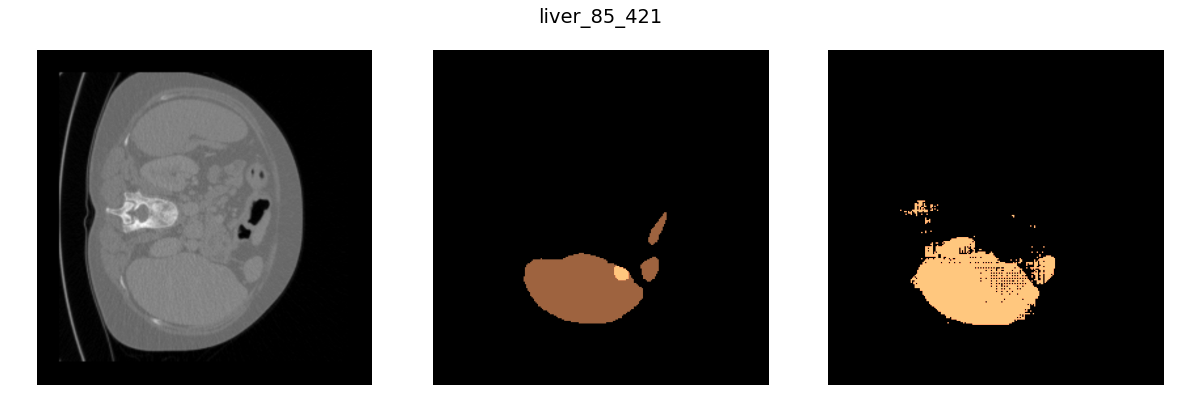
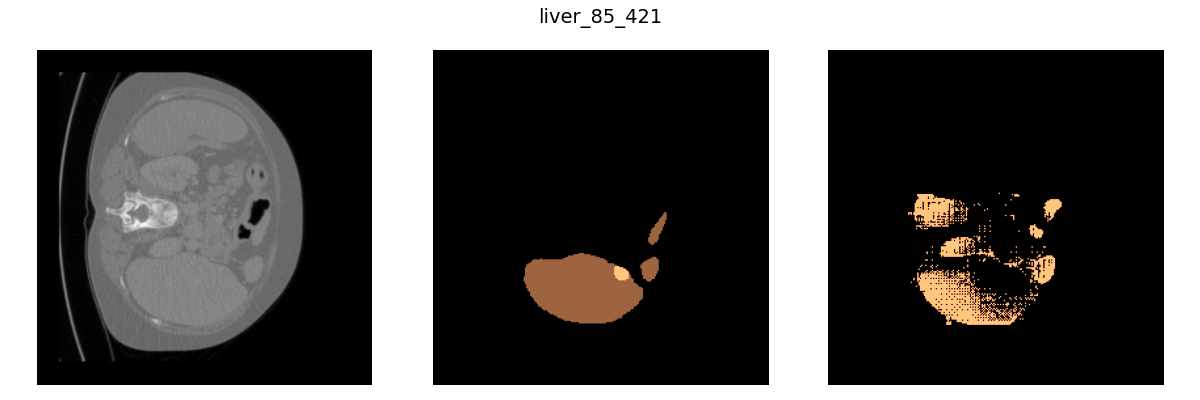
try specificity and sensitivity, produce some examples

Changed region(s): [[0.74, 0.57, 0.8942, 0.81], [0.74, 0.48, 0.8325, 0.57], [0.8633, 0.48, 0.8942, 0.54]]

diff --git a/SAM-inference.py b/SAM-inference.py
@@ -138,6 +138,7 @@ def makePredictions(args, img_type, test_loader):
     model.to(device)
     
     # Iterate through test images
+    i = 0
     with torch.no_grad():
         for batch in tqdm(test_loader):
             # forward pass
@@ -167,8 +168,10 @@ def makePredictions(args, img_type, test_loader):
 
             # try owm implementation for dice score
             print('Own implementation of dice:')
-            dice_from_utils = calculate_dice_score(predicted_masks, ground_truth_masks.unsqueeze(1))
+            dice_from_utils, sensitivity, specificity = calculate_dice_score(predicted_masks, ground_truth_masks.unsqueeze(1))
             print(dice_from_utils)
+            print('sensitivity: ', sensitivity)
+            print('specificity: ', specificity)
             #-----------------------------------------------------------------------
 
             # apply sigmoid
@@ -199,7 +202,8 @@ def makePredictions(args, img_type, test_loader):
             plt.tight_layout()
             
             if args.save_individual_plots:
-                plt.savefig('./output/plots/'+name+'-prediction.png')
+                if i % 50 == 0:
+                    plt.savefig('./output/plots/'+name+'-prediction.png')
             else:
                 plt.savefig('./output/plots/model-prediction.png')
             
@@ -207,6 +211,7 @@ def makePredictions(args, img_type, test_loader):
 
             # release memory
             torch.cuda.empty_cache()
+            i += 1
             
 
             

diff --git a/utils/utils.py b/utils/utils.py
@@ -36,8 +36,10 @@ def calculate_dice_score(y_pred, y):
 
     #dice = (2*tp)/(2*tp+fp+fn)
     dice = 2*tp/(torch.sum(predict) + torch.sum(target))
-
-    return dice
+    sensitivity = tp / (tp + fn)
+    specificity = tn / (tn + fp)
+    
+    return dice, sensitivity, specificity
 
 
 
